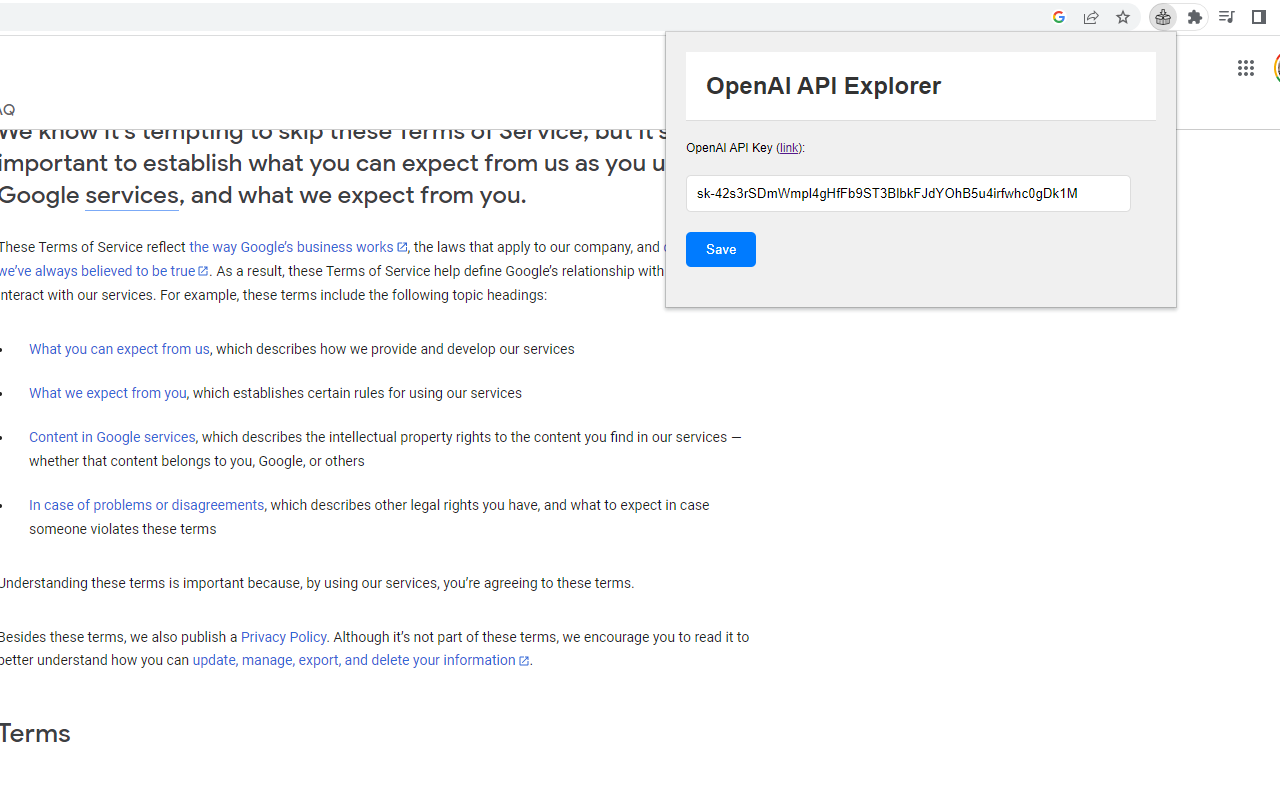
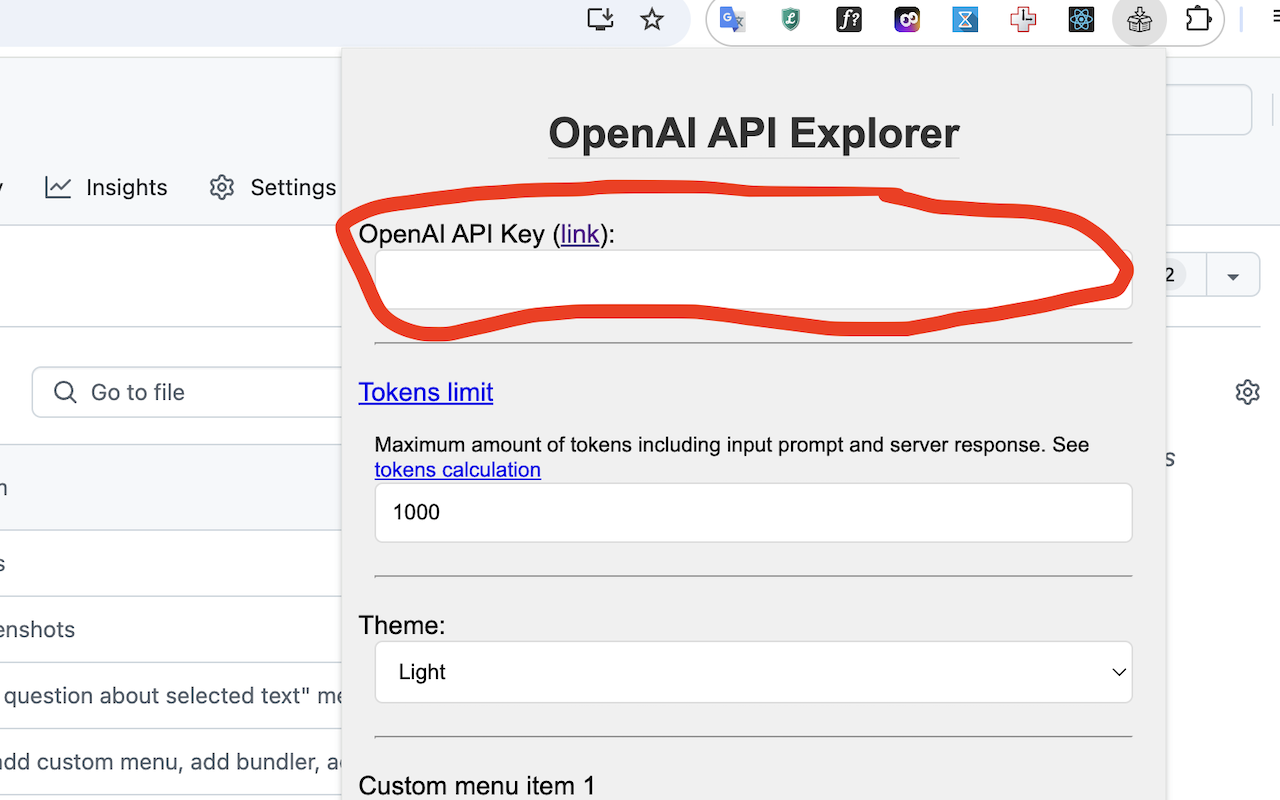
v1.4.39 Add "TextAigist" naming, add unsubscriber questionnaire, add support email

diff --git a/options.ts b/options.ts
@@ -1,14 +1,22 @@
 import { MENU_ITEM_PREFIX } from "./menu";
 
 function FillElementsWithData(items: any) {
-  (document.getElementById("apiKey") as HTMLInputElement).value = items.openAIKey;
-  (document.getElementById("theme") as HTMLInputElement).value = items.theme || "light";
-  (document.getElementById("maxTokens") as HTMLInputElement).value = items.maxTokens || 1000;
-  (document.getElementById("menuitem1") as HTMLInputElement).value = items.menuitem1 || "";
-  (document.getElementById("menuitem1name") as HTMLInputElement).value = items.menuitem1name || "";
-  (document.getElementById("menuitem2") as HTMLInputElement).value = items.menuitem2 || "";
-  (document.getElementById("menuitem2name") as HTMLInputElement).value = items.menuitem2name || "";
-  (document.getElementById("model") as HTMLInputElement).value = items.model || "gpt-4o-mini";
+  (document.getElementById("apiKey") as HTMLInputElement).value =
+    items.openAIKey;
+  (document.getElementById("theme") as HTMLInputElement).value =
+    items.theme || "light";
+  (document.getElementById("maxTokens") as HTMLInputElement).value =
+    items.maxTokens || 1000;
+  (document.getElementById("menuitem1") as HTMLInputElement).value =
+    items.menuitem1 || "";
+  (document.getElementById("menuitem1name") as HTMLInputElement).value =
+    items.menuitem1name || "";
+  (document.getElementById("menuitem2") as HTMLInputElement).value =
+    items.menuitem2 || "";
+  (document.getElementById("menuitem2name") as HTMLInputElement).value =
+    items.menuitem2name || "";
+  (document.getElementById("model") as HTMLInputElement).value =
+    items.model || "gpt-4o-mini";
 }
 
 document.addEventListener("DOMContentLoaded", function () {
@@ -24,7 +32,7 @@ document.addEventListener("DOMContentLoaded", function () {
         menuitem1name: "Custom item 1",
         menuitem2: "",
         menuitem2name: "Custom item 2",
-        model: ""
+        model: "",
       },
       FillElementsWithData
     );
@@ -43,12 +51,20 @@ document.addEventListener("DOMContentLoaded", function () {
   // Saves options to chrome.storage
   function save_options() {
     const theme = (document.getElementById("theme") as HTMLInputElement).value;
-    const openAIKey = (document.getElementById("apiKey") as HTMLInputElement).value;
-    const maxTokens = (document.getElementById("maxTokens") as HTMLInputElement).value;
-    const menuitem1 = (document.getElementById("menuitem1") as HTMLInputElement).value;
-    const menuitem1name = (document.getElementById("menuitem1name") as HTMLInputElement).value;
-    const menuitem2 = (document.getElementById("menuitem2") as HTMLInputElement).value;
-    const menuitem2name = (document.getElementById("menuitem2name") as HTMLInputElement).value;
+    const openAIKey = (document.getElementById("apiKey") as HTMLInputElement)
+      .value;
+    const maxTokens = (document.getElementById("maxTokens") as HTMLInputElement)
+      .value;
+    const menuitem1 = (document.getElementById("menuitem1") as HTMLInputElement)
+      .value;
+    const menuitem1name = (
+      document.getElementById("menuitem1name") as HTMLInputElement
+    ).value;
+    const menuitem2 = (document.getElementById("menuitem2") as HTMLInputElement)
+      .value;
+    const menuitem2name = (
+      document.getElementById("menuitem2name") as HTMLInputElement
+    ).value;
     const model = (document.getElementById("model") as HTMLInputElement).value;
     const saveObject = {
       openAIKey,
@@ -63,19 +79,15 @@ document.addEventListener("DOMContentLoaded", function () {
 
     chrome.storage.sync.set(saveObject, ShowSaveSuccessStatus);
 
-    chrome.contextMenus.update(`${MENU_ITEM_PREFIX}menuitem1`,
-      {
-        visible: !!menuitem1,
-        title: menuitem1name,
-      }
-    )
+    chrome.contextMenus.update(`${MENU_ITEM_PREFIX}menuitem1`, {
+      visible: !!menuitem1,
+      title: menuitem1name,
+    });
 
-    chrome.contextMenus.update(`${MENU_ITEM_PREFIX}menuitem2`,
-      {
-        visible: !!menuitem2,
-        title: menuitem2name
-      }
-    )
+    chrome.contextMenus.update(`${MENU_ITEM_PREFIX}menuitem2`, {
+      visible: !!menuitem2,
+      title: menuitem2name,
+    });
   }
 
   function clear_options() {
@@ -87,11 +99,15 @@ document.addEventListener("DOMContentLoaded", function () {
       menuitem1name: "",
       menuitem2: "",
       menuitem2name: "",
-      model: ""
+      model: "",
     });
     chrome.storage.sync.clear();
   }
 
-  document.getElementById("saveButton")?.addEventListener("click", save_options);
-  document.getElementById("clearButton")?.addEventListener("click", clear_options);
+  document
+    .getElementById("saveButton")
+    ?.addEventListener("click", save_options);
+  document
+    .getElementById("clearButton")
+    ?.addEventListener("click", clear_options);
 });

diff --git a/options.html b/options.html
@@ -1,0 +1,137 @@
+<!DOCTYPE html>
+<html>
+  <head>
+    <!-- <script src="https://sdk.amazonaws.com/js/aws-sdk-2.1691.0.min.js"></script> -->
+    <title>OpenAI API Explorer</title>
+    <style>
+      .header { display: flex; justify-content: center; }
+      body {
+        font-family: Arial, sans-serif;
+        margin: 0;
+        padding: 20px;
+        background-color: #f0f0f0;
+        width: 470px;
+        font-size: small;
+      }
+      h1 {
+        color: #333;
+        border-bottom: 1px solid #ddd;
+      }
+      label {
+        display: block;
+        margin-top: 20px;
+        font-size: medium;
+      }
+      .inputText {
+        width: 100%;
+        padding: 10px;
+        border: 1px solid #ddd;
+        border-radius: 5px;
+        box-sizing: border-box;
+      }
+      select {
+        width: 100%;
+        padding: 10px;
+        border: 1px solid #ddd;
+        border-radius: 5px;
+        box-sizing: border-box;
+      }
+      input[type="button"] {
+        padding: 10px 20px;
+        background-color: #007bff;
+        color: #fff;
+        border: none;
+        border-radius: 5px;
+        margin-top: 20px;
+        cursor: pointer;
+      }
+      input[type="button"]:hover {
+        background-color: #0056b3;
+      }
+      #status {
+        margin: 20px;
+        color: green;
+      }
+      hr {
+        margin-top: 20px;
+      }
+      .label {
+        margin-left: -10px;
+      }
+      .support {
+        display: flex;
+        justify-content: end;
+        font-size: smaller;
+      }
+    </style>
+    <script src="options.js"></script>
+  </head>
+  <body>
+    <div class="header"><h1>OpenAI API Explorer - TextAigist</h1></div>
+    <label for="apiKey" class="label"
+      >OpenAI API Key (<a
+        href="https://platform.openai.com/account/api-keys"
+        _target="blank"
+        >link</a
+      >):</label
+    >
+    <input type="text" class="inputText" id="apiKey" name="apiKey" />
+    
+    <hr />
+    <label for="maxTokens" class="label"
+      ><a
+        href="https://platform.openai.com/docs/api-reference/completions/create#completions/create-max_tokens"
+        _target="blank"
+        >Tokens limit</a
+      ></label>
+      <br>
+      Maximum amount of tokens including input prompt and server response. See
+      <a href="https://platform.openai.com/tokenizer" _target="blank"
+        >tokens calculation</a
+      >
+    <input type="text" class="inputText" id="maxTokens" name="maxTokens" />
+  
+    <hr />
+    <label for="theme" class="label">Theme:</label>
+    <select id="theme">
+      <option value="light">Light</option>
+      <option value="dark">Dark</option>
+    </select>
+  
+    <hr />
+    <label for="menuitem1" class="label">Custom menu item 1</label>
+      <br>
+      Label presented in context menu <input type="text" name="menuitem1name" id="menuitem1name" />
+      <br>
+      What should we ask AI about selected text?
+    <input type="text" class="inputText" id="menuitem1" name="menuitem1" />
+
+    <hr />
+    <label for="menuitem2" class="label">Custom menu item 2</label>
+      <br>
+      Label presented in context menu <input type="text" name="menuitem2name" id="menuitem2name" />
+      <br>
+      What should we ask AI about selected text?
+    <input type="text" class="inputText" id="menuitem2" name="menuitem2" />
+
+    <hr />
+    <label for="model" class="label">Open AI model</label>
+      <br>
+      See descriptions <a href="https://platform.openai.com/docs/models/models-overview" _target="blank">here</a>
+    <select id="model">
+      <option value="gpt-4">GPT-4</option>
+      <option value="gpt-4o">GPT-4o</option>
+      <option value="gpt-4o-mini">GPT-4o mini</option>
+      <option value="gpt-4-turbo">gpt-4-turbo</option>
+      <option value="gpt-3.5-turbo">GPT-3.5 Turbo</option>
+      <option value="text-embedding-3-large">Embeddings</option>
+      <option value="text-moderation-latest">Moderation</option>
+    </select>
+
+    <br />
+    <input type="button" value="Save" id="saveButton" />
+    <input type="button" value="Clear" id="clearButton" />
+    <div id="status"></div>
+    <div class="support">support&nbsp;<a href="mailto:info@textaigist.online">info@textaigist.online</a></div>
+  </body>
+</html>

diff --git a/background.ts b/background.ts
@@ -17,23 +17,24 @@ const fetchConfig = (
   additionalInfo?: any
 ) => {
   const { config } = menuItems.filter(({ id }) => id === findMenuId)[0];
-  if (config) {
-    config.messages[0].content = config.messages[0].content.replace(
+  const configResult = {messages: [], ...config};
+  if (configResult) {
+    configResult.messages[0].content = configResult.messages[0].content.replace(
       SELECTED_TEXT,
       selectionText
     );
-    config.messages[0].content = config.messages[0].content.replace(
+    configResult.messages[0].content = configResult.messages[0].content.replace(
       USER_QUESTION,
       additionalInfo?.response
     );
   }
 
   ["menuitem1", "menuitem2"].forEach((menuItemId: string) => {
-    if (findMenuId === `${MENU_ITEM_PREFIX}${menuItemId}` && config) {
-      config.messages[0].content = items[menuItemId] + "\n\n" + selectionText;
+    if (findMenuId === `${MENU_ITEM_PREFIX}${menuItemId}` && configResult) {
+      configResult.messages[0].content = items[menuItemId] + "\n\n" + selectionText;
     }
   });
-  return config;
+  return configResult;
 };
 
 // Function to create a menu item
@@ -70,7 +71,7 @@ async function sendOpenAIRequest(
   if (!items.openAIKey) {
     chrome.tabs.sendMessage(tabId, {
       openaiapiERROR:
-        "Please set OPEN AI KEY in the extension options, please find instructions in option window",
+        "Please set OPENAI KEY in the extension options, please find instructions in option window",
     });
     return;
   }
@@ -126,6 +127,7 @@ try {
     for (var i = 0; i < menuItems.length; i++) {
       createMenuItem(menuItems[i]);
     }
+    chrome.runtime.setUninstallURL("https://www.surveymonkey.com/r/QXKXQML");
   });
 
   chrome.contextMenus.onClicked.addListener(async (info, tab) => {

diff --git a/menu.ts b/menu.ts
@@ -6,7 +6,7 @@ export const USER_QUESTION = "<<user_question>>"
 export const menuItems = [
     { id: `${MENU_ITEM_PREFIX}Parent`, 
     visible: true, 
-    title: "OpenAI API Explorer" },
+    title: "OpenAI API Explorer - TextAigist" },
     // {
     //   id: `openaiapiWAIT`,
     //   parentId: `${MENU_ITEM_PREFIX}Parent`,

diff --git a/build.js b/build.js
@@ -5,6 +5,7 @@ function runEsbuild() {
   console.log("Run build");
   runProcess("options.ts", "dist/options.js");
   runProcess("background.ts", "dist/out.js");
+  fs.copyFileSync("options.html", "dist/options.html");
   spawn("node", ["archive"]);
 }
 

diff --git a/README.md b/README.md
@@ -1,4 +1,4 @@
-# OpenAI API Explorer Chrome Extension
+# OpenAI API Explorer - TextAigist: Chrome Extension
 
 This is a simple Chrome extension that uses the OpenAI ChatGPT API to summarize selected text on a webpage. The summarized text is then displayed in an alert.
 
@@ -22,7 +22,7 @@ Your extension is now ready to use! Simply select some text on a webpage, right-
 
 <div>
 <img src="./screenshots/step1.png" width="31%" alt="Paste API key in browser popup">
-<img src="./screenshots/step2.png" width="31%" alt="Select text and choose OpenAI API Explorer">
+<img src="./screenshots/step2.png" width="31%" alt="Select text and choose OpenAI API Explorer - TextAigist">
 <img src="./screenshots/step3.png" width="31%" alt="Wait couple of seconds and see summary in popup">
 </div>
 
